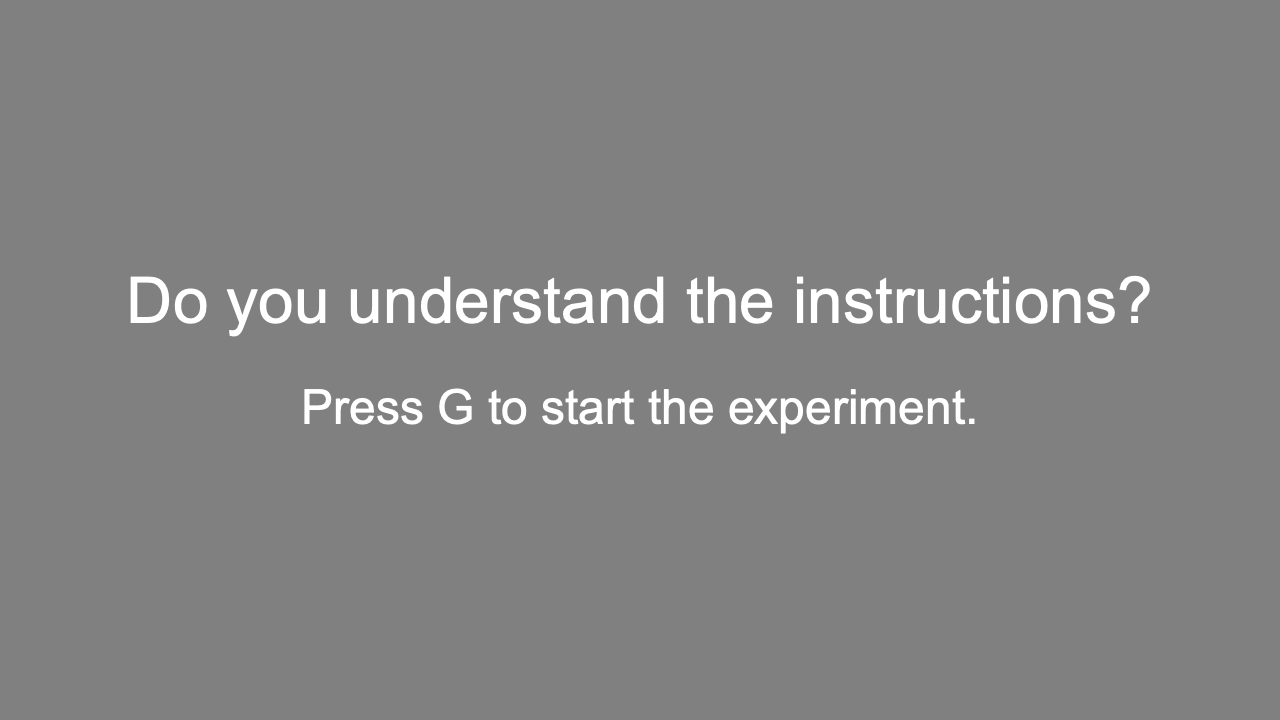
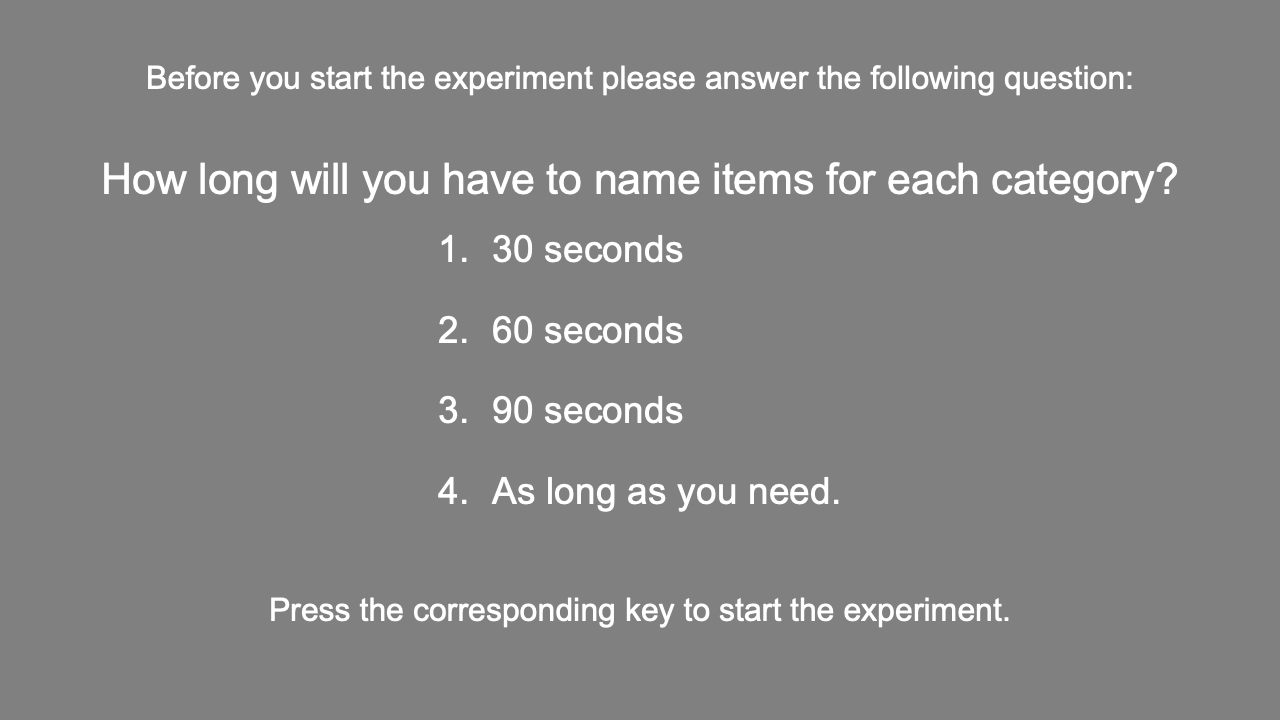
_

diff --git a/html/Fluency_Task-legacy-browsers.js b/html/Fluency_Task-legacy-browsers.js
@@ -876,6 +876,13 @@ function InstructionsRoutineEnd(trials) {
         thisComponent.setAutoDraw(false);
       }
     });
+    psychoJS.experiment.addData('instructions_resp_1.keys', instructions_resp_1.keys);
+    if (typeof instructions_resp_1.keys !== 'undefined') {  // we had a response
+        psychoJS.experiment.addData('instructions_resp_1.rt', instructions_resp_1.rt);
+        routineTimer.reset();
+        }
+    
+    instructions_resp_1.stop();
     // the Routine "Instructions" was not non-slip safe, so reset the non-slip timer
     routineTimer.reset();
     
@@ -943,7 +950,7 @@ function Instructions_2RoutineEachFrame(trials) {
     }
 
     if (key_resp_instructions_2.status === PsychoJS.Status.STARTED) {
-      let theseKeys = key_resp_instructions_2.getKeys({keyList: ['g'], waitRelease: false});
+      let theseKeys = key_resp_instructions_2.getKeys({keyList: ['1', '2', '3', '4'], waitRelease: false});
       _key_resp_instructions_2_allKeys = _key_resp_instructions_2_allKeys.concat(theseKeys);
       if (_key_resp_instructions_2_allKeys.length > 0) {
         key_resp_instructions_2.keys = _key_resp_instructions_2_allKeys[_key_resp_instructions_2_allKeys.length - 1].name;  // just the last key pressed

diff --git a/html/Fluency_Task.js b/html/Fluency_Task.js
@@ -878,6 +878,13 @@ function InstructionsRoutineEnd(trials) {
         thisComponent.setAutoDraw(false);
       }
     }
+    psychoJS.experiment.addData('instructions_resp_1.keys', instructions_resp_1.keys);
+    if (typeof instructions_resp_1.keys !== 'undefined') {  // we had a response
+        psychoJS.experiment.addData('instructions_resp_1.rt', instructions_resp_1.rt);
+        routineTimer.reset();
+        }
+    
+    instructions_resp_1.stop();
     // the Routine "Instructions" was not non-slip safe, so reset the non-slip timer
     routineTimer.reset();
     
@@ -944,7 +951,7 @@ function Instructions_2RoutineEachFrame(trials) {
     }
 
     if (key_resp_instructions_2.status === PsychoJS.Status.STARTED) {
-      let theseKeys = key_resp_instructions_2.getKeys({keyList: ['g'], waitRelease: false});
+      let theseKeys = key_resp_instructions_2.getKeys({keyList: ['1', '2', '3', '4'], waitRelease: false});
       _key_resp_instructions_2_allKeys = _key_resp_instructions_2_allKeys.concat(theseKeys);
       if (_key_resp_instructions_2_allKeys.length > 0) {
         key_resp_instructions_2.keys = _key_resp_instructions_2_allKeys[_key_resp_instructions_2_allKeys.length - 1].name;  // just the last key pressed
